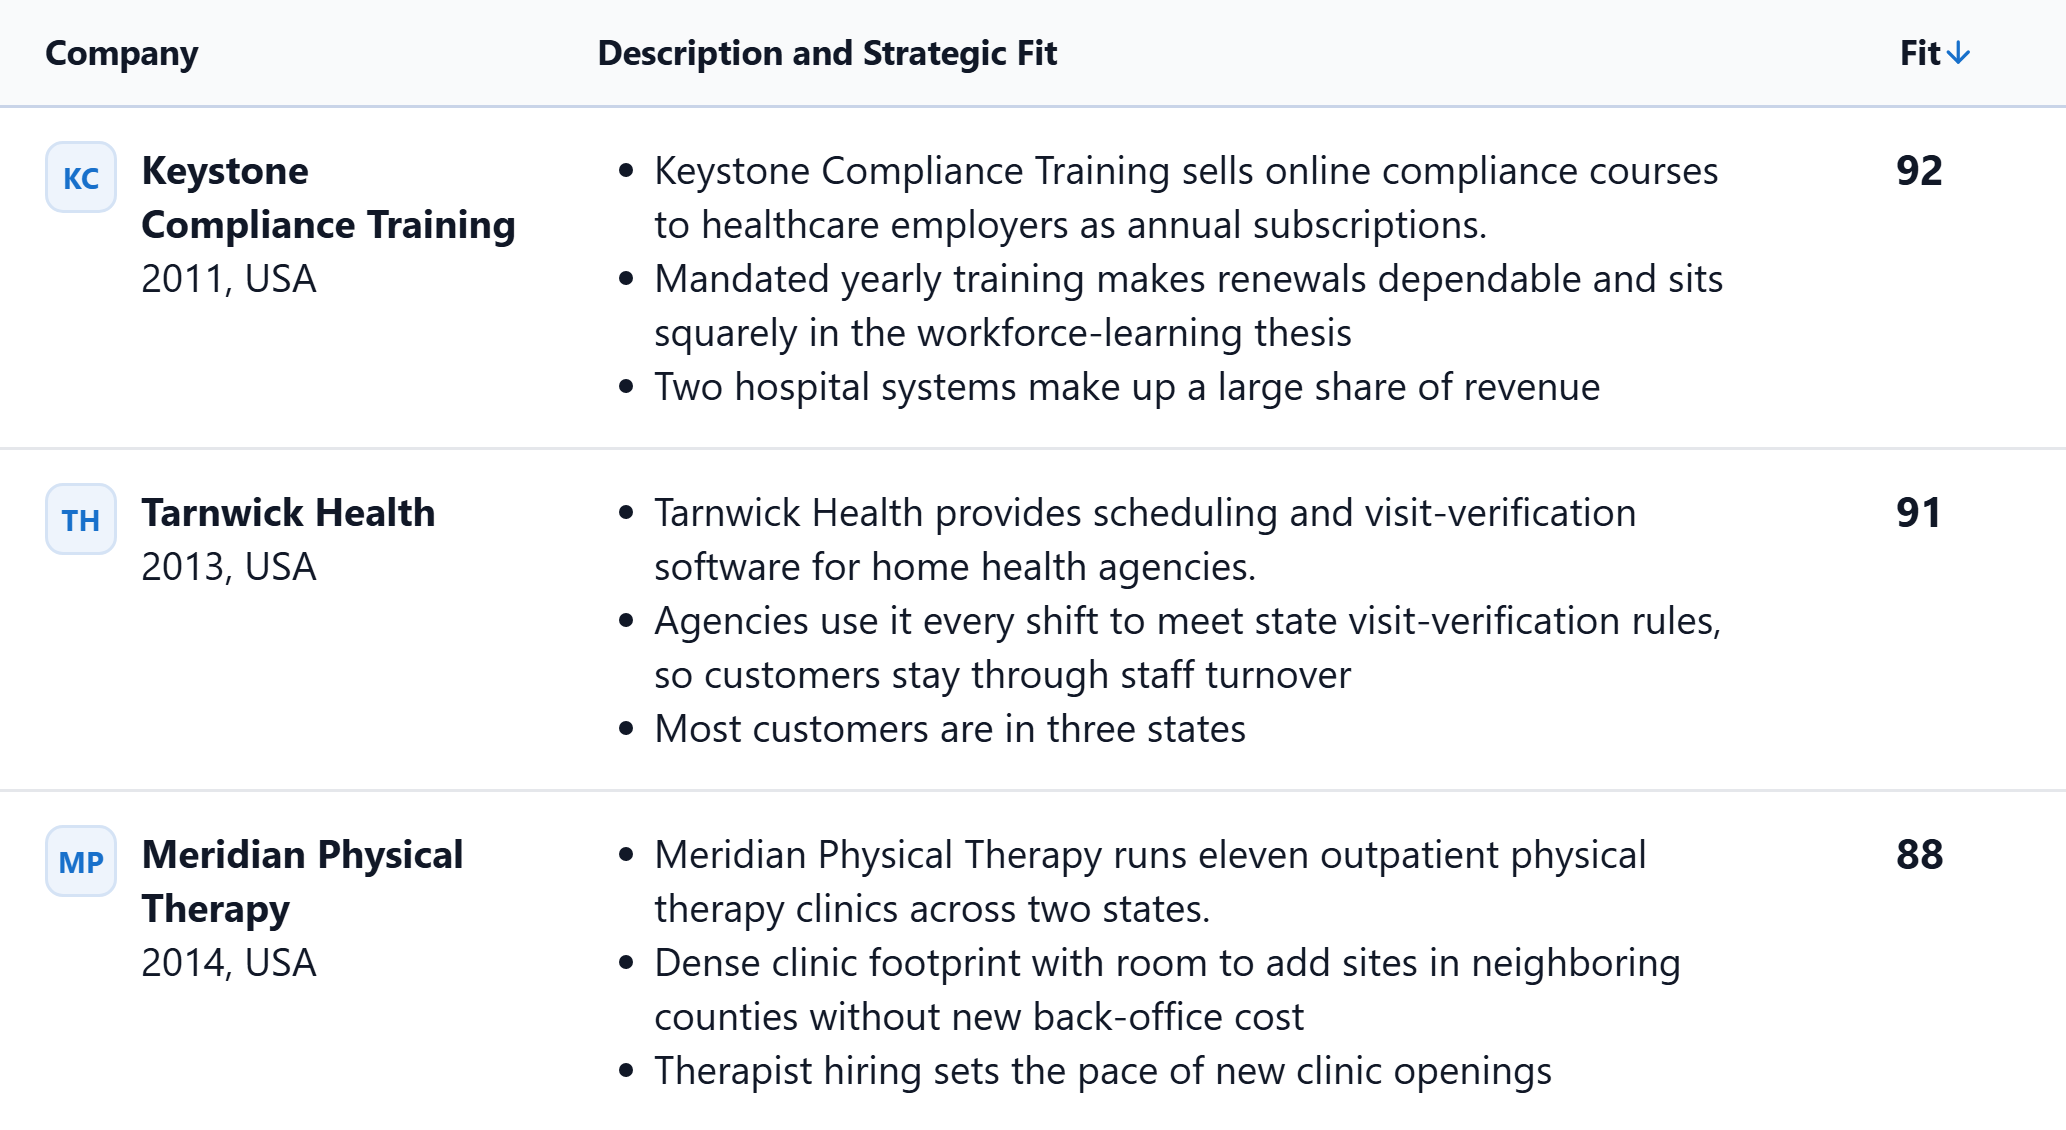
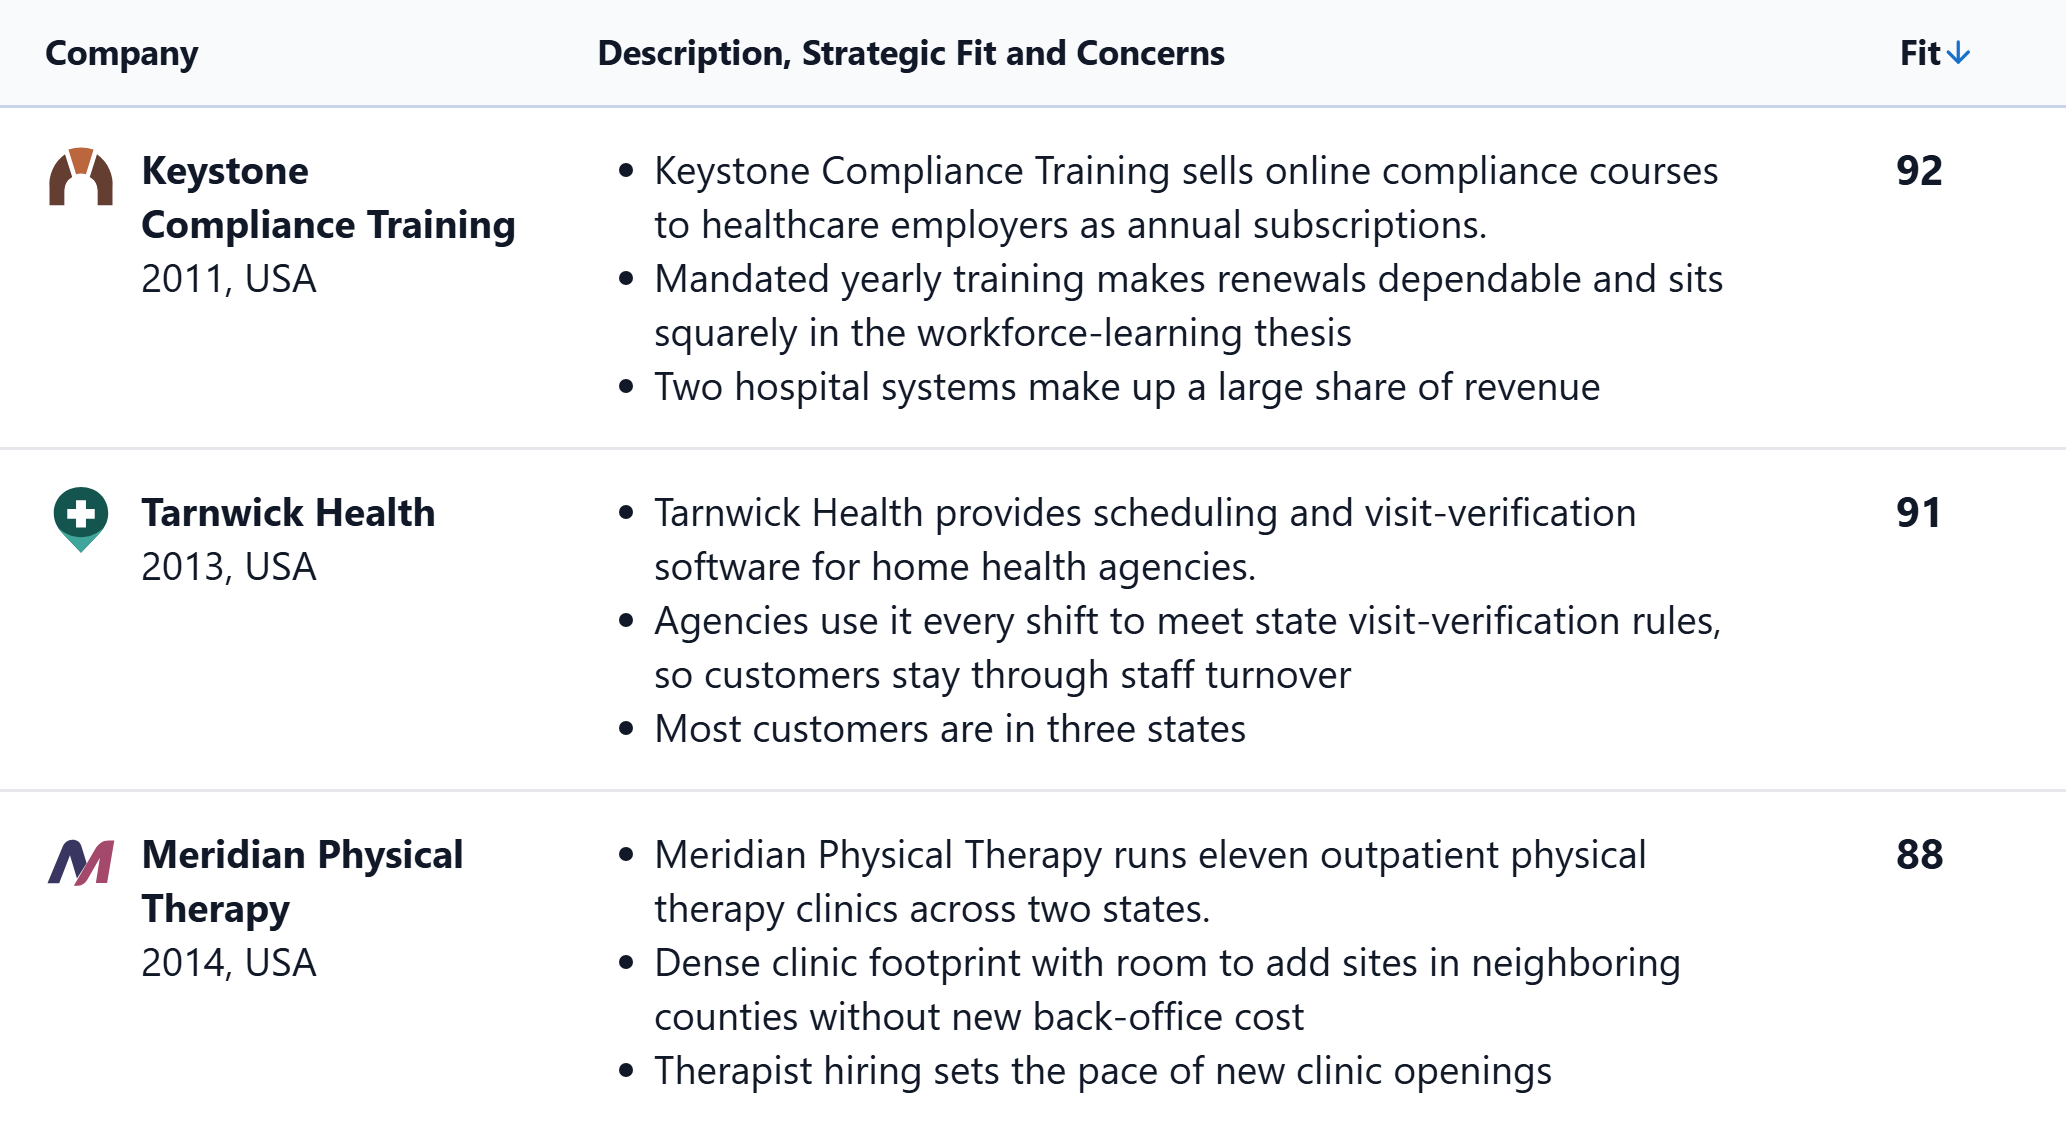
Connect Corvel's benchmark to its plan and identify the sourcing prospects

diff --git a/index.html b/index.html
@@ -1247,12 +1247,12 @@ h2 .soft { color:inherit; }
 
 #value-creation.vc-council {padding-left:var(--pad);padding-right:var(--pad);}
 </style>
-<link rel="stylesheet" href="section-refinements.css?v=portfolio-marks">
+<link rel="stylesheet" href="section-refinements.css?v=board-pack-sources">
 <link rel="stylesheet" href="mobile-refinements.css?v=7">
 <link rel="stylesheet" href="product-typography.css?v=8.7">
-<link rel="stylesheet" href="investment-exhibits.css?v=4">
+<link rel="stylesheet" href="investment-exhibits.css?v=5">
 <link rel="stylesheet" href="evaluation-exhibit.css?v=2">
-<link rel="stylesheet" href="value-creation-exhibit.css?v=afternoon">
+<link rel="stylesheet" href="value-creation-exhibit.css?v=renewal-plan">
 </head>
 <body>
 <a class="skip" href="#hero-title">Skip to content</a>
@@ -1403,33 +1403,33 @@ h2 .soft { color:inherit; }
     <div class="panel q4">
 
       <div id="sourcing-queue" role="group" aria-label="Prospects ranked by fit score" tabindex="-1">
-      <img class="crop q4wide" src="assets/asset-03.png" width="1033" height="565" alt="Part of the sourcing list, with invented data: the first three prospects by fit score. Keystone Compliance Training, 92: mandated yearly training makes renewals dependable; main concern, two hospital systems make up a large share of revenue. Tarnwick Health, 91: agencies use it every shift to meet state visit-verification rules, so customers stay through staff turnover; main concern, most customers are in three states. Meridian Physical Therapy, 88: a dense clinic footprint with room to add sites in neighboring counties; main concern, therapist hiring sets the pace of new clinic openings.">
+      <img class="crop q4wide" src="assets/asset-03.png?v=prospect-marks" width="1033" height="565" alt="Description, Strategic Fit and Concerns for the first three prospects by fit score. Invented data. Keystone Compliance Training, 92: mandated yearly training makes renewals dependable; main concern, two hospital systems make up a large share of revenue. Tarnwick Health, 91: agencies use it every shift to meet state visit-verification rules, so customers stay through staff turnover; main concern, most customers are in three states. Meridian Physical Therapy, 88: a dense clinic footprint with room to add sites in neighboring counties; main concern, therapist hiring sets the pace of new clinic openings.">
       <div class="q4narrow">
         <ol class="sourcing-prospects" role="list" aria-label="First three prospects by fit score, with invented data">
           <li>
             <details>
-              <summary><span>Keystone Compliance Training</span><strong><span class="sr">Fit score </span>92<span aria-hidden="true">/100</span><span class="sr"> out of 100</span></strong></summary>
+              <summary><span class="prospect-identity"><img src="assets/keystone-compliance-mark.svg" width="24" height="24" alt="">Keystone Compliance Training</span><strong><span class="sr">Fit score </span>92<span aria-hidden="true">/100</span><span class="sr"> out of 100</span></strong></summary>
               <div class="prospect-evidence">
                 <p>Online compliance courses for healthcare employers.</p>
-                <dl><dt>Fit</dt><dd>Mandated yearly training makes renewals dependable.</dd><dt>Concern</dt><dd>Two hospital systems make up a large share of revenue.</dd></dl>
+                <dl><dt>Strategic fit</dt><dd>Mandated yearly training makes renewals dependable.</dd><dt>Concern</dt><dd>Two hospital systems make up a large share of revenue.</dd></dl>
               </div>
             </details>
           </li>
           <li>
             <details open>
-              <summary id="tarnwick-fit"><span>Tarnwick Health</span><strong><span class="sr">Fit score </span>91<span aria-hidden="true">/100</span><span class="sr"> out of 100</span></strong></summary>
+              <summary id="tarnwick-fit"><span class="prospect-identity"><img src="assets/tarnwick-health-mark.svg" width="24" height="24" alt="">Tarnwick Health</span><strong><span class="sr">Fit score </span>91<span aria-hidden="true">/100</span><span class="sr"> out of 100</span></strong></summary>
               <div class="prospect-evidence">
                 <p>Scheduling and visit-verification software for home health agencies.</p>
-                <dl><dt>Fit</dt><dd>Agencies use it every shift to meet state visit-verification rules, so customers stay through staff turnover.</dd><dt>Concern</dt><dd>Most customers are in three states.</dd></dl>
+                <dl><dt>Strategic fit</dt><dd>Agencies use it every shift to meet state visit-verification rules, so customers stay through staff turnover.</dd><dt>Concern</dt><dd>Most customers are in three states.</dd></dl>
               </div>
             </details>
           </li>
           <li>
             <details>
-              <summary><span>Meridian Physical Therapy</span><strong><span class="sr">Fit score </span>88<span aria-hidden="true">/100</span><span class="sr"> out of 100</span></strong></summary>
+              <summary><span class="prospect-identity"><img src="assets/meridian-physical-therapy-mark.svg" width="24" height="24" alt="">Meridian Physical Therapy</span><strong><span class="sr">Fit score </span>88<span aria-hidden="true">/100</span><span class="sr"> out of 100</span></strong></summary>
               <div class="prospect-evidence">
                 <p>Eleven outpatient physical therapy clinics across two states.</p>
-                <dl><dt>Fit</dt><dd>A dense clinic footprint with room to add sites in neighboring counties.</dd><dt>Concern</dt><dd>Therapist hiring sets the pace of new clinic openings.</dd></dl>
+                <dl><dt>Strategic fit</dt><dd>A dense clinic footprint with room to add sites in neighboring counties.</dd><dt>Concern</dt><dd>Therapist hiring sets the pace of new clinic openings.</dd></dl>
               </div>
             </details>
           </li>
@@ -1501,21 +1501,27 @@ h2 .soft { color:inherit; }
       </div>
       <figure class="portfolio-queue" aria-labelledby="portfolio-queue-title">
         <figcaption>
-          <strong id="portfolio-queue-title">Board pack updates</strong>
+          <strong id="portfolio-queue-title">What changed</strong>
           <span>2 of 9 companies</span>
         </figcaption>
         <ul>
           <li>
             <img class="queue-mark" src="assets/corvel-learning-mark.svg" width="32" height="32" alt="">
             <div>
-              <strong>Corvel Learning</strong>
+              <div class="feed-byline">
+                <strong>Corvel Learning</strong>
+                <button type="button" class="feed-source" data-excerpt="corvel-excerpt" aria-haspopup="dialog" aria-label="View illustrative board pack excerpt for Corvel Learning">source <span aria-hidden="true">↗</span></button>
+              </div>
               <p>October revenue was <b>4% below budget</b>. EBITDA margin was <b>24%</b>, down from <b>26%</b> in September.</p>
             </div>
           </li>
           <li>
             <img class="queue-mark" src="assets/brackenhall-billing-mark.svg" width="32" height="32" alt="">
             <div>
-              <strong>Brackenhall Billing</strong>
+              <div class="feed-byline">
+                <strong>Brackenhall Billing</strong>
+                <button type="button" class="feed-source" data-excerpt="brackenhall-excerpt" aria-haspopup="dialog" aria-label="View illustrative board pack excerpt for Brackenhall Billing">source <span aria-hidden="true">↗</span></button>
+              </div>
               <p>The board approved a plan to <b>bring collections in-house</b> when the servicing contract expires in March.</p>
             </div>
           </li>
@@ -1549,7 +1555,10 @@ h2 .soft { color:inherit; }
             </div>
           </div>
         </div>
-        <figcaption class="m6n">Net revenue retention of 98% puts it at the 38th percentile of its sector peers, 10 percentage points below the top quartile.</figcaption>
+        <figcaption class="m6n">
+          <span>Corvel’s net retention was 98%, against 108% for top-quartile peers.</span>
+          <a class="plan-link" href="#corvel-renewal">Why a renewal desk for Corvel?<span aria-hidden="true"> ↓</span></a>
+        </figcaption>
       </figure>
     </div>
   </div>
@@ -1560,7 +1569,7 @@ h2 .soft { color:inherit; }
     <header class="vc-intro">
       <p class="vc-label" style="--c:var(--d3)"><i aria-hidden="true"></i>Value creation</p>
       <h2 id="h7">A ranked plan for each <span class="vc-keep-phrase">portfolio company.</span></h2>
-      <p class="vc-body">The plan starts with what monitoring shows about the company’s results and where it trails its peers. Each recommendation explains what to change and why. Your team can assign someone to follow up.</p>
+      <p class="vc-body">FirmCortex uses operating results and benchmarks from your deal flow and portfolio to recommend ways to grow revenue or reduce costs.</p>
     </header>
     <div class="vc-stage">
       <ol class="vc-plan" role="list" aria-label="Corvel Learning’s ranked actions">
@@ -1571,7 +1580,7 @@ h2 .soft { color:inherit; }
             <b>Move legacy seat plans to current list price at renewal</b>
           </div>
         </li>
-        <li class="vc-main">
+        <li class="vc-main" id="corvel-renewal" tabindex="-1">
           <span class="vc-rank" aria-hidden="true">2</span>
           <div class="vc-from">
             <p class="vc-cap" style="--c:var(--d2)"><i aria-hidden="true"></i>From monitoring</p>
@@ -1605,7 +1614,6 @@ h2 .soft { color:inherit; }
           </div>
         </li>
       </ol>
-      <p class="vc-later">Still to validate <span class="vc-tag2">New segment</span><span class="vc-tag2">Product</span></p>
     </div>
   </div>
 </section>
@@ -1872,5 +1880,31 @@ h2 .soft { color:inherit; }
 })();
 </script>
 <script src="mobile-refinements.js?v=9"></script>
+<dialog id="corvel-excerpt" class="source-note" aria-labelledby="corvel-doc">
+  <div class="note-top">
+    <p>Illustrative board pack excerpt</p>
+    <form method="dialog"><button class="source-close">Close</button></form>
+  </div>
+  <h2 id="corvel-doc">Corvel Learning</h2>
+  <table><tbody>
+    <tr><th scope="row">October revenue</th><td>4% below budget</td></tr>
+    <tr><th scope="row">September EBITDA margin</th><td>26%</td></tr>
+    <tr><th scope="row">October EBITDA margin</th><td>24%</td></tr>
+  </tbody></table>
+</dialog>
+<dialog id="brackenhall-excerpt" class="source-note" aria-labelledby="brackenhall-doc">
+  <div class="note-top">
+    <p>Illustrative board pack excerpt</p>
+    <form method="dialog"><button class="source-close">Close</button></form>
+  </div>
+  <h2 id="brackenhall-doc">Brackenhall Billing</h2>
+  <p class="excerpt-text">The board approved bringing collections in-house when the servicing contract expires in March.</p>
+</dialog>
+<script>
+document.querySelectorAll('.feed-source').forEach(button => {
+  const excerpt = document.getElementById(button.dataset.excerpt);
+  button.addEventListener('click', () => excerpt.showModal());
+});
+</script>
 </body>
 </html>

diff --git a/section-refinements.css b/section-refinements.css
@@ -41,6 +41,26 @@
 #monitoring .m6f::before {display:none}
 #monitoring .m6c {margin:0 0 6px}
 #monitoring .stage6 .body,#monitoring .m6c,#monitoring .m6n {color:#fff}
+#monitoring.sec {padding-bottom:clamp(14px,2.2vw,30px)}
+#monitoring .m6n {display:flex;align-items:baseline;justify-content:space-between;gap:8px 24px;flex-wrap:wrap}
+#monitoring .plan-link {color:#c5e4ff;font-weight:600;text-decoration:underline;text-decoration-thickness:1px;text-underline-offset:4px}
+#monitoring .plan-link:hover {color:white}
+#monitoring .plan-link:focus-visible {outline:2px solid #c5e4ff;outline-offset:3px}
+.feed-byline {display:flex;align-items:baseline;justify-content:space-between;gap:8px}
+.feed-source,.source-close {color:#1266b3;background:transparent;border:0;font:600 14px/22px Inter,Arial,sans-serif;cursor:pointer}
+.feed-source {white-space:nowrap;padding:3px 0 3px 6px}
+.source-close {padding:4px}
+.feed-source:hover,.source-close:hover {text-decoration:underline;text-underline-offset:3px}
+.feed-source:focus-visible,.source-close:focus-visible {outline:2px solid #1870cb;outline-offset:3px}
+.source-note {background:white;color:#111827;border:1px solid #c9cdd5;border-radius:12px;padding:26px;width:min(440px,calc(100vw - 36px));max-height:85vh;margin:auto;box-shadow:0 20px 60px #160d142e}
+.source-note::backdrop {background:#170d19a8}
+.source-note .note-top {display:flex;align-items:center;justify-content:space-between;gap:12px}
+.source-note .note-top p {font-size:13px;line-height:1.4;font-weight:600;margin:0}
+.source-note h2 {font:650 23px/1.25 Inter,Arial,sans-serif;letter-spacing:-.03em;margin:18px 0 14px}
+.source-note table {width:100%;border-collapse:collapse}
+.source-note th,.source-note td {border-top:1px solid #dce0e7;padding:9px 0;text-align:left;font:400 15px/1.45 Inter,Arial,sans-serif}
+.source-note td {text-align:right;font-weight:600}
+.source-note .excerpt-text {font-size:16px;line-height:1.55;margin:0}
 
 /* Original supplied pixels, clipped and placed at the exact Figma source coordinates. */
 .corvel-card {container-type:inline-size;--pixel:calc(100cqw / 2046);background:white;border:1px solid #dde2ea;border-radius:12px;overflow:hidden;padding-bottom:22px}
@@ -114,7 +134,10 @@
   .portfolio-queue .queue-mark {width:28px;height:28px}
   #monitoring .m6f {grid-template-columns:minmax(0,1fr);row-gap:14px}
   #monitoring .m6c {margin:0}
-  #monitoring .m6n {font-size:15px;line-height:23px}
+  #monitoring .m6n {display:block;font-size:15px;line-height:23px}
+  #monitoring .plan-link {display:block;width:fit-content;margin-top:8px}
+  .feed-source {font-size:13px}
+  .source-note {padding:20px}
   #value-creation.vc-bridge .vc-simple {margin-left:8px;margin-right:8px;padding:0}
   #value-creation .vc-simple .vc-r7 {flex-direction:column;align-items:flex-start;gap:6px;padding:14px}
   #value-creation .vc-simple .vc-tag2 {width:auto}

diff --git a/investment-exhibits.css b/investment-exhibits.css
@@ -77,6 +77,16 @@
     list-style: none;
   }
   #sourcing .sourcing-prospects summary::-webkit-details-marker { display: none; }
+  #sourcing .prospect-identity {
+    display: flex;
+    align-items: center;
+    gap: 8px;
+  }
+  #sourcing .prospect-identity img {
+    flex: none;
+    width: 24px;
+    height: 24px;
+  }
   #sourcing .sourcing-prospects summary strong {
     font-size: 20px;
     line-height: 1.3;
@@ -115,6 +125,12 @@
   }
   #sourcing .prospect-evidence dt { font-weight: 600; color: var(--ink); }
   #sourcing .prospect-evidence dd { margin: 0; }
+}
+
+@media (max-width: 360px) {
+  #sourcing .sourcing-prospects summary { gap: 8px; padding-inline: 12px; }
+  #sourcing .prospect-identity { gap: 6px; }
+  #sourcing .prospect-evidence dt { max-width: 4.25em; }
 }
 
 /* The workbook citation is a document reference. */

diff --git a/value-creation-exhibit.css b/value-creation-exhibit.css
@@ -2,6 +2,18 @@
   --mute: var(--ink);
 }
 
+#value-creation.vc-council {padding-top:clamp(30px,3.6vw,52px)}
+#value-creation.vc-bridge .vc-intro {display:block;max-width:1036px;margin:0 auto}
+#value-creation.vc-bridge .vc-intro h2 {text-wrap:initial;max-width:none}
+#value-creation.vc-bridge .vc-intro .vc-body {max-width:68ch;margin:12px 0 0;color:var(--ink)}
+#value-creation.vc-bridge .vc-stage {margin-top:28px}
+#corvel-renewal {scroll-margin-top:88px}
+#corvel-renewal:focus-visible {outline:2px solid #1870cb;outline-offset:3px}
+@media (max-width:760px) {
+  #value-creation.vc-bridge .vc-intro .vc-body {margin-top:10px}
+  #value-creation.vc-bridge .vc-stage {margin-top:22px}
+}
+
 #value-creation .vc-simple .vc-rank,
 #value-creation .vc-simple .vc-tag2 {
   color: var(--ink);
